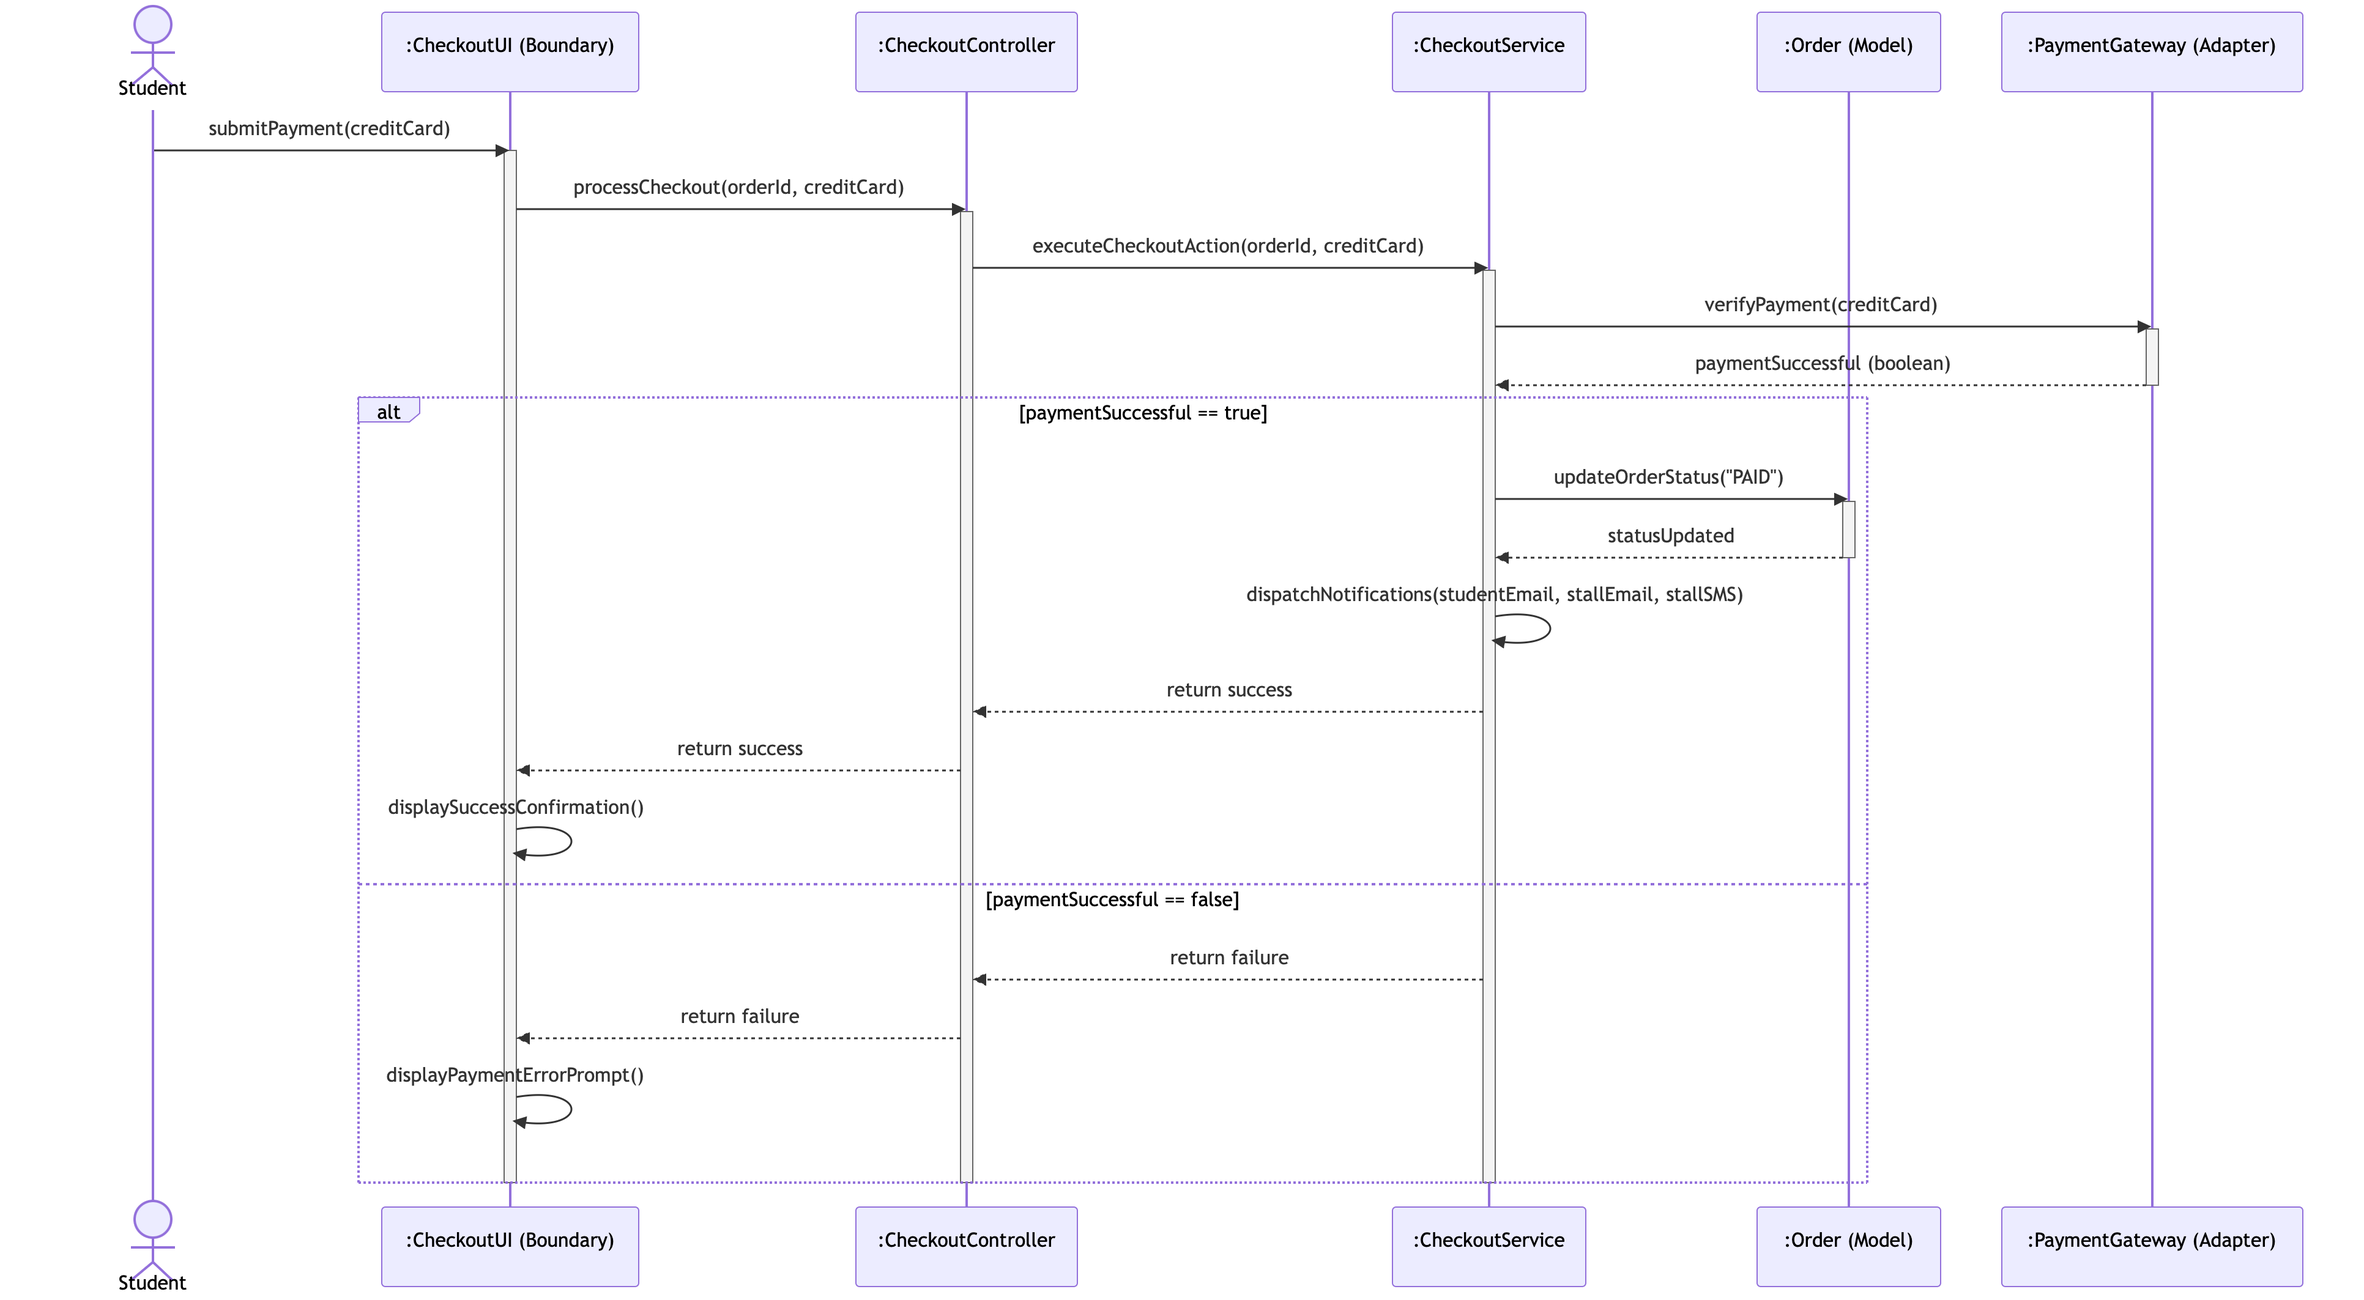
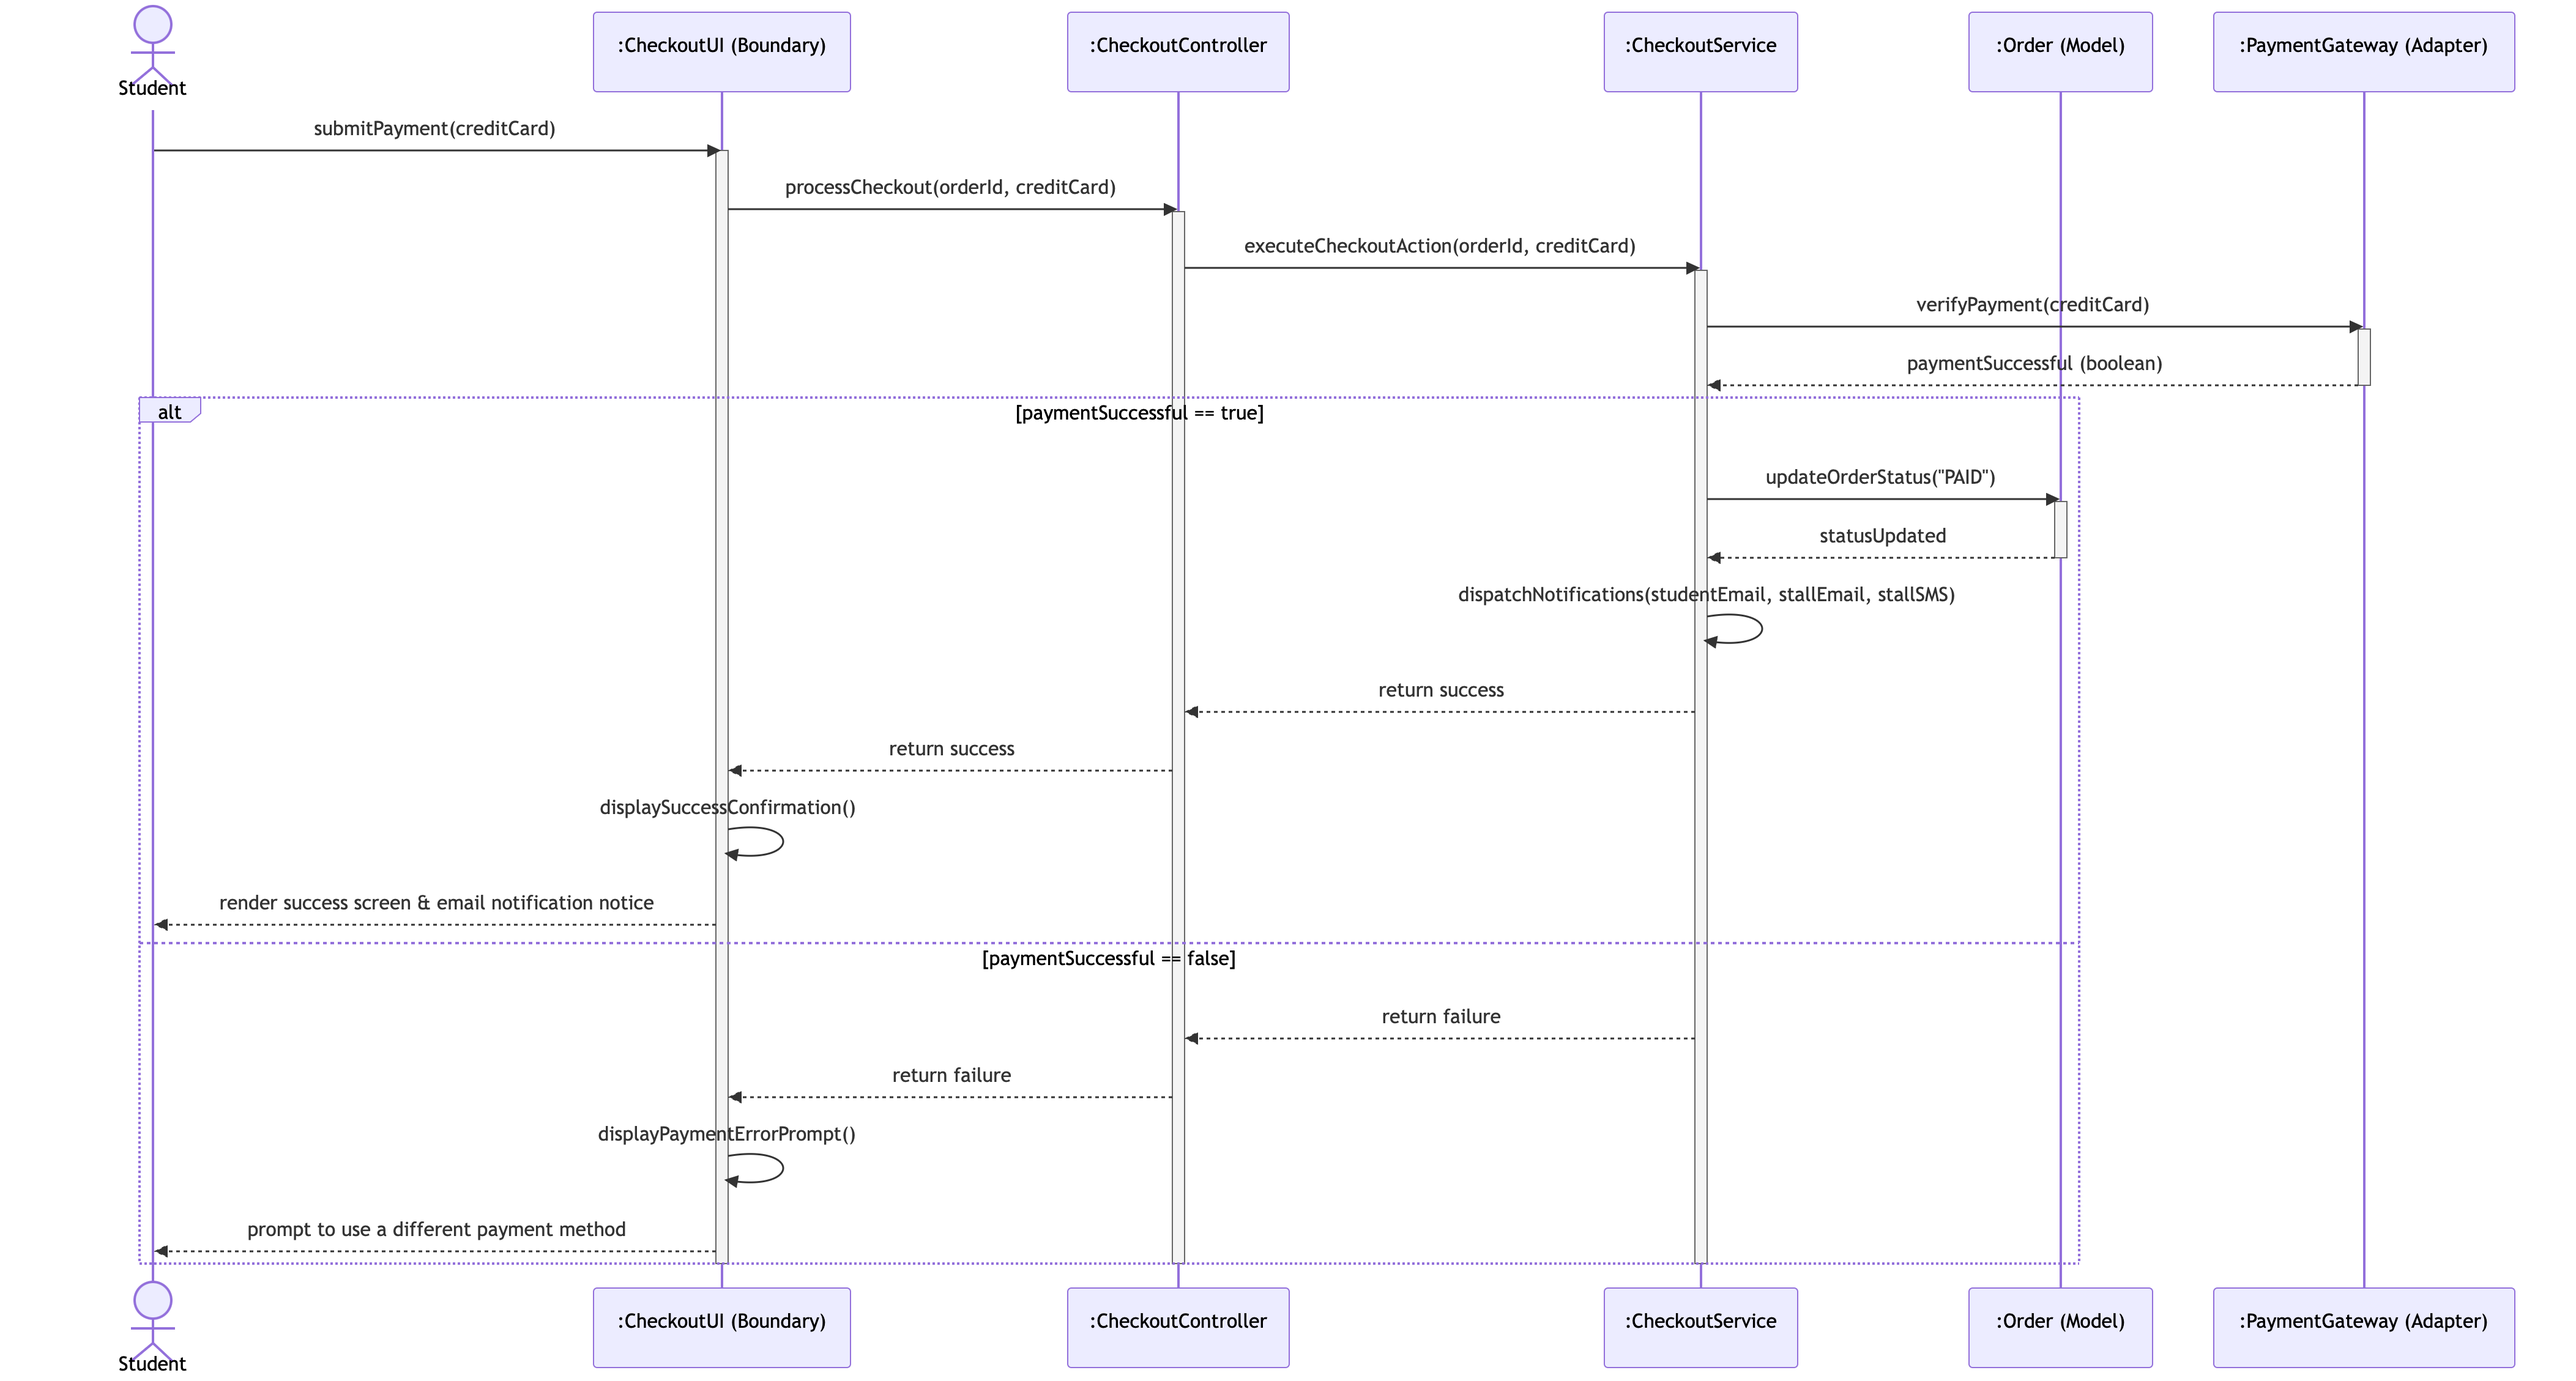
before pull

diff --git a/ce10/ce10.md b/ce10/ce10.md
@@ -33,3 +33,12 @@ End-to-End tests simulate the real user (`Student`) traversing the entire system
 2. Specifically, how do the **Combined Fragments** (`alt/else` blocks) in your diagram dictate the total number of E2E tests you need to write for the checkout flow? Briefly define the exact starting actions and final user-facing results for each.
 
 ---
+### Notes:
+#### Sequence Diagram
+Updated to end the return arrows at the primary actor.
+#### Task 1:
+In addition to input, output etc., also define the system state before the test and after the test.
+#### Task 2:
+Choose at least 2 attributes to enumerate inputs.
+#### Task 3:
+In addition to input, output etc., also define the system state before the test and after the test.
